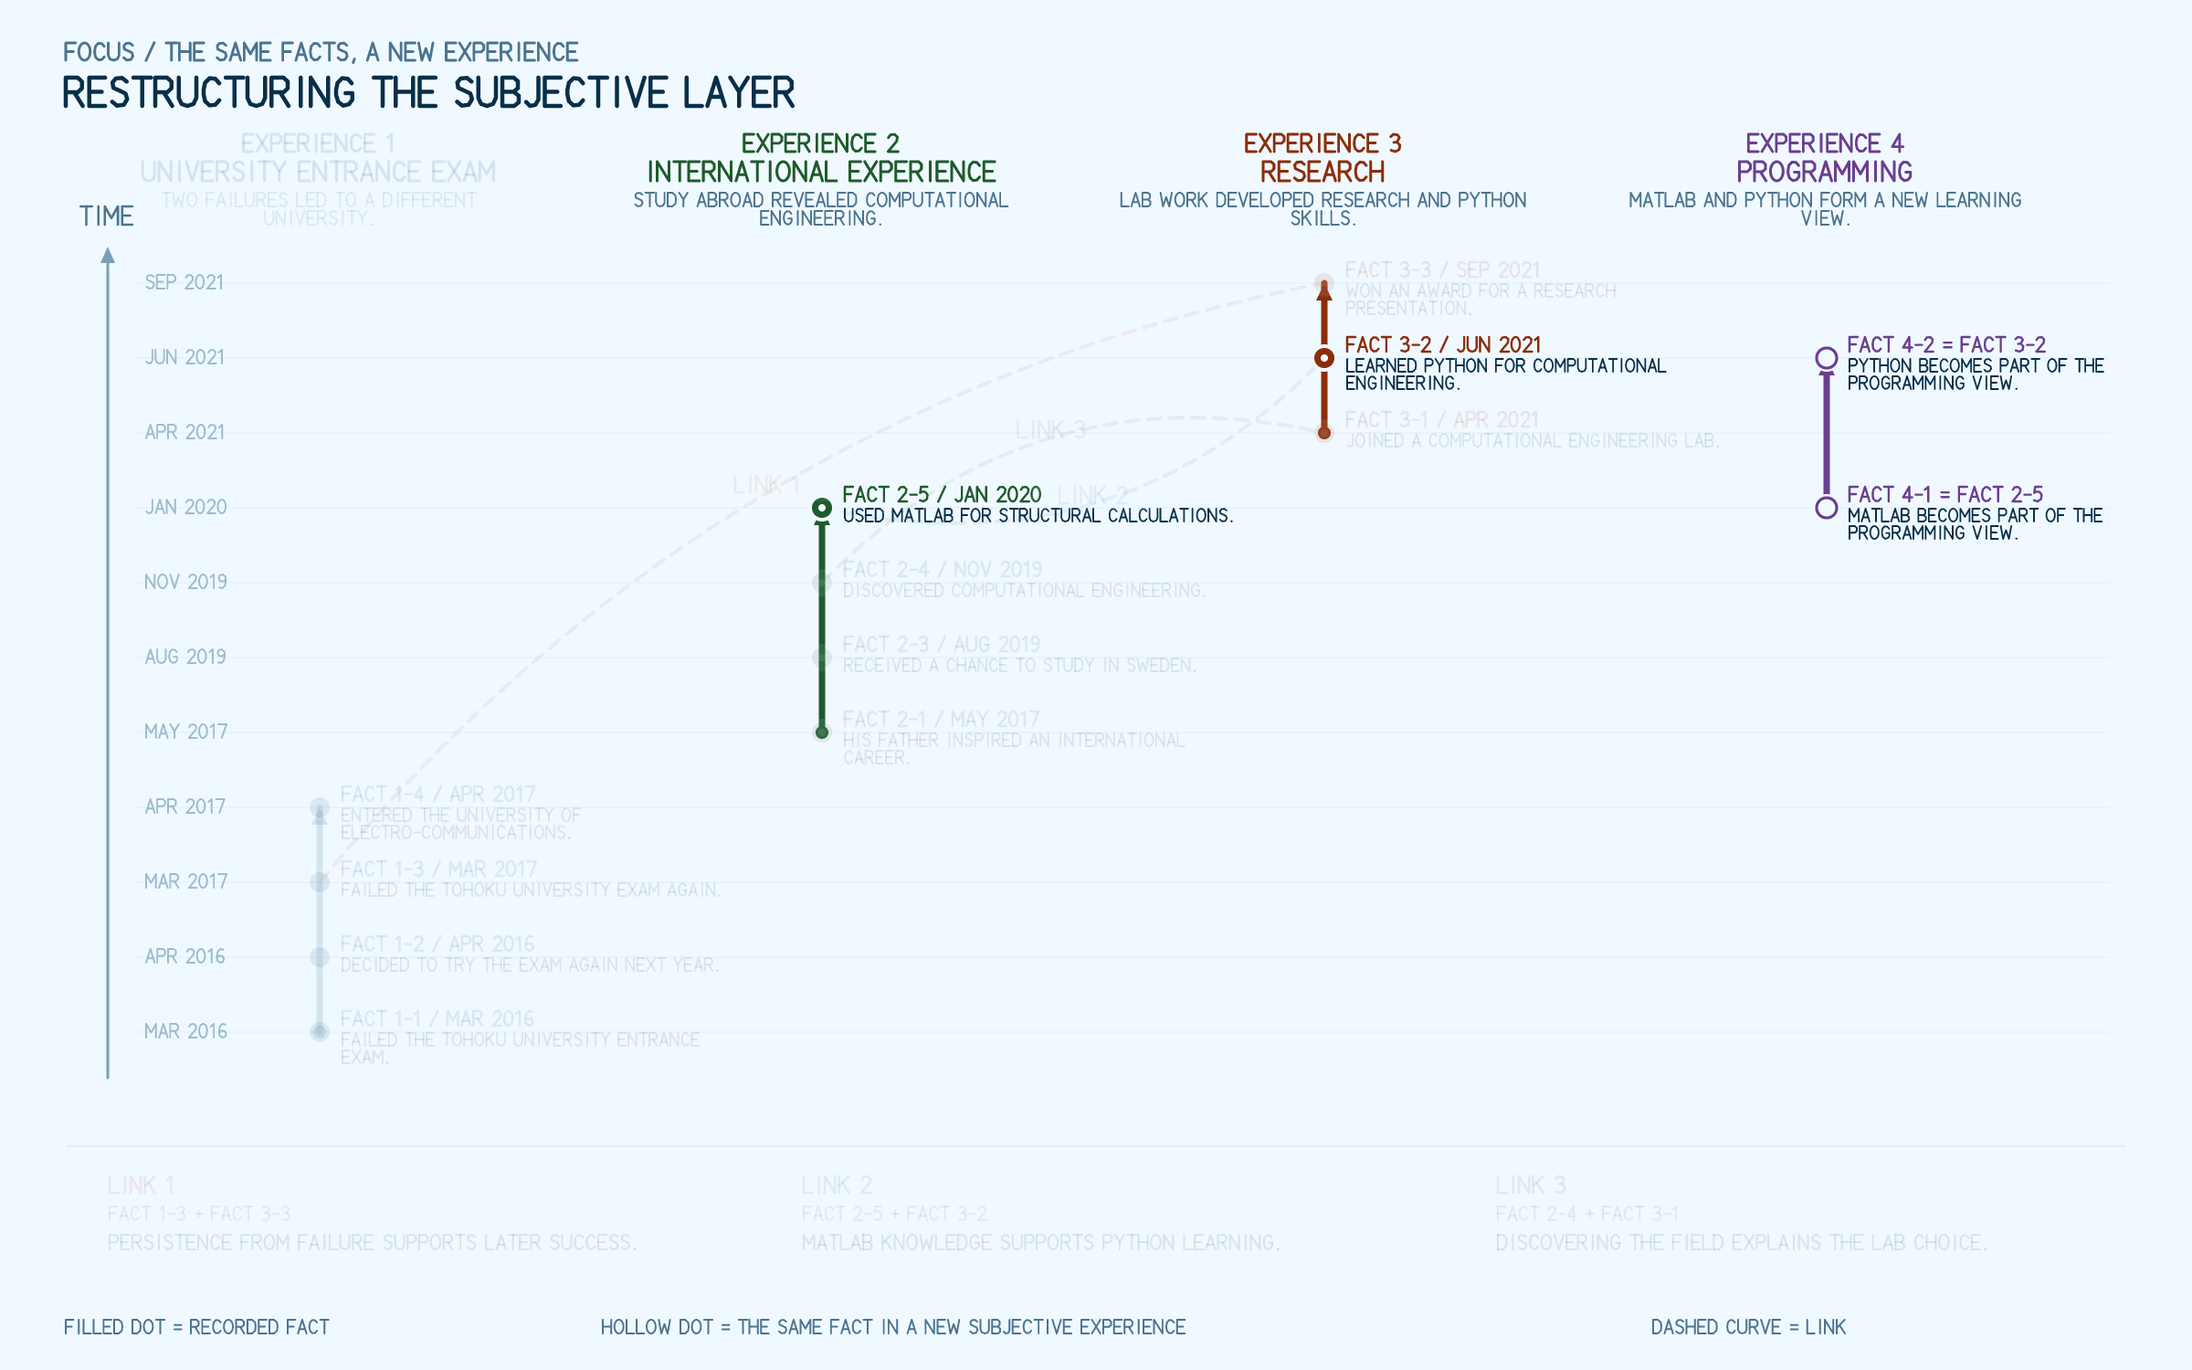
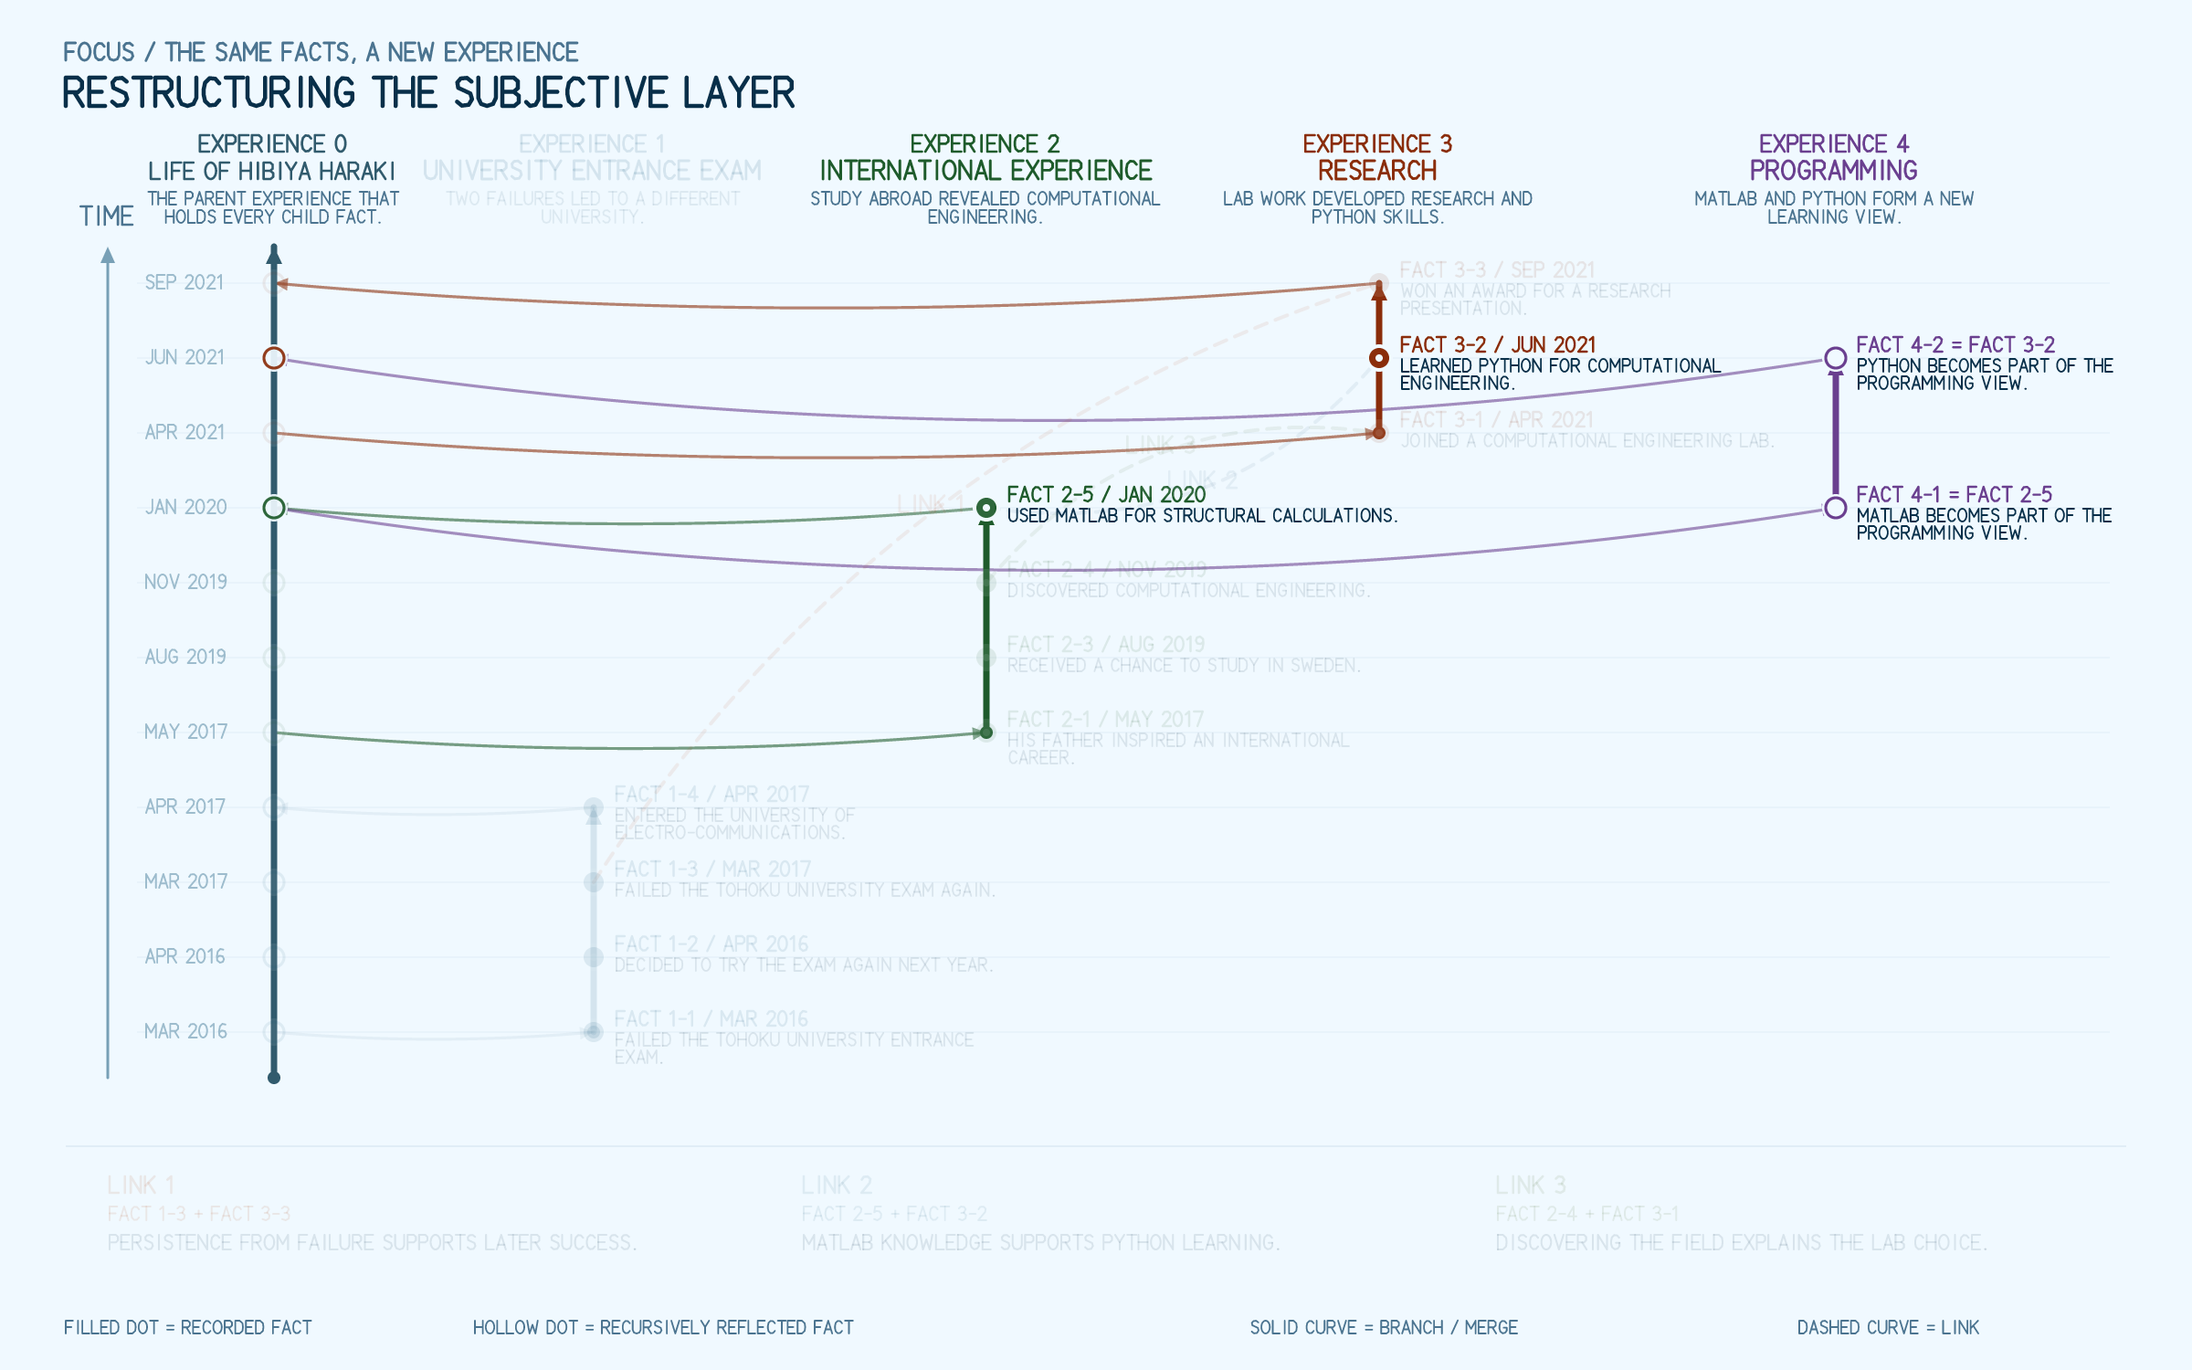
Add life branch on image

diff --git a/src/i18n.js b/src/i18n.js
@@ -104,13 +104,19 @@ const TRANSLATIONS = {
       ],
       caseKicker: 'A LIVED EXAMPLE',
       caseTitle: 'One history can support several ways of understanding a life.',
-      caseDescription: 'The following example follows Hibiya from his university entrance examinations through international study, research, and programming. The FACTs remain objective records. EXPERIENCE and LINK reveal how the same records can acquire meaning that was not visible when they happened.',
+      caseDescription: 'EXPERIENCE 0 represents Hibiya’s life and is the parent of the four focused EXPERIENCEs below. The example follows his university entrance examinations through international study, research, and programming. FACTs remain objective records while EXPERIENCE and LINK reveal meaning that was not visible when the events happened.',
       caseGraphFigure: '09',
       caseGraphImage: 'ecg-example-complete',
       caseGraphTitle: 'The complete scenario on one shared timeline',
-      caseGraphCaption: 'All four EXPERIENCE lanes, every dated FACT, and all three LINKs share one graph. FACT 2-5 and FACT 3-2 also appear as hollow points on EXPERIENCE 4 because the objective events are unchanged while the subjective grouping is new.',
-      caseGraphAlt: 'A complete Extended Commit Graph for Hibiya from March 2016 to September 2021. Four vertical EXPERIENCE lanes contain every dated FACT and its short description. Three dashed LINK curves connect FACT 1-3 to FACT 3-3, FACT 2-5 to FACT 3-2, and FACT 2-4 to FACT 3-1. Hollow points repeat MATLAB and Python on the Programming EXPERIENCE.',
+      caseGraphCaption: 'EXPERIENCE 0 is the parent life lane. EXPERIENCE 1–4 branch from it at their first FACT and merge back after their last FACT, while every unique child FACT is recursively reflected onto EXPERIENCE 0 as a hollow point. The three dashed LINKs keep their separate semantic role.',
+      caseGraphAlt: 'A complete Extended Commit Graph for Hibiya from March 2016 to September 2021. EXPERIENCE 0, Life of Hibiya Haraki, is the leftmost parent line and contains hollow reflections of all child FACTs. EXPERIENCE 1 through 4 branch from and merge back into it with solid curves. Three dashed LINK curves connect FACT 1-3 to FACT 3-3, FACT 2-5 to FACT 3-2, and FACT 2-4 to FACT 3-1.',
       caseExperiences: [
+        {
+          id: 'EXPERIENCE 0',
+          title: 'Life of Hibiya Haraki',
+          description: 'The parent EXPERIENCE for this scenario. EXPERIENCE 1–4 branch from this life line and merge back into it, and their FACTs are recursively reflected onto it.',
+          facts: [],
+        },
         {
           id: 'EXPERIENCE 1',
           title: 'University Entrance Exam',
@@ -164,7 +170,7 @@ const TRANSLATIONS = {
           title: 'A future success can create meaning for a past failure.',
           description: 'EXPERIENCE 1 was originally a story of failure for Hibiya. LINK 1 connects that EXPERIENCE to FACT 3-3, the later presentation award. The failure itself does not become a success and no FACT is rewritten. Instead, a relationship that only became visible later adds the meaning of persistence to the earlier EXPERIENCE. This is the non-linear revaluation that HASM can describe.',
           caption: 'LINK 1 reaches backward across the timeline: FACT 3-3 does not change the failed examinations, but it reveals how the persistence learned there contributed to later success.',
-          alt: 'The complete scenario graph with unrelated entities faded. EXPERIENCE 1, FACT 3-3, and LINK 1 remain emphasized to connect the March 2017 examination failure with the September 2021 presentation award.',
+          alt: 'The complete scenario graph with unrelated entities faded. Parent EXPERIENCE 0, EXPERIENCE 1, FACT 3-3, their branch and merge paths, recursively reflected FACTs, and LINK 1 remain emphasized.',
         },
         {
           key: 'discontinuity',
@@ -174,7 +180,7 @@ const TRANSLATIONS = {
           title: 'A LINK can preserve a reason that chronological order hides.',
           description: 'LINK 3 makes the reason for FACT 3-1 visible: Hibiya selected the laboratory because FACT 2-4 had already shown him that Computational Engineering was interesting. At the time of the international EXPERIENCE, nobody could know that this discovery would later determine a research choice. HASM therefore avoids deciding that an EXPERIENCE is useless simply because its consequence is not yet visible.',
           caption: 'LINK 3 crosses from the International Experience to Research. The two FACTs are separated in time and context, but the LINK preserves the reason for the later decision.',
-          alt: 'The complete scenario graph with unrelated entities faded. FACT 2-4, FACT 3-1, their EXPERIENCE lanes, and LINK 3 remain emphasized to show why Hibiya selected the laboratory.',
+          alt: 'The complete scenario graph with unrelated entities faded. Parent EXPERIENCE 0, FACT 2-4, FACT 3-1, their child EXPERIENCE lanes, branch and merge paths, reflected FACTs, and LINK 3 remain emphasized.',
         },
         {
           key: 'restructuring',
@@ -184,7 +190,7 @@ const TRANSLATIONS = {
           title: 'The same FACTs can reveal a new EXPERIENCE.',
           description: 'When the history is organized by what Hibiya did, FACT 2-5 belongs to International Experience and FACT 3-2 belongs to Research. When it is organized by what he learned, the same two FACTs also form EXPERIENCE 4, Programming. Nothing objective has changed and no duplicate event is created. Only the subjective grouping changes, revealing a perspective that the earlier organization did not show.',
           caption: 'FACT 2-5 and FACT 3-2 keep their identities while appearing together under EXPERIENCE 4. The new line is a new subjective view, not a new history.',
-          alt: 'The complete scenario graph with unrelated entities faded. FACT 2-5, FACT 3-2, and their hollow counterparts on EXPERIENCE 4 remain emphasized to show a new Programming perspective over unchanged FACTs.',
+          alt: 'The complete scenario graph with unrelated entities faded. Parent EXPERIENCE 0, FACT 2-5, FACT 3-2, and their hollow counterparts on EXPERIENCE 4 remain emphasized with the related branch and merge paths.',
         },
       ],
       interactionKicker: 'PLANNED EXPLORATION',
@@ -645,13 +651,19 @@ const TRANSLATIONS = {
       ],
       caseKicker: '実例',
       caseTitle: 'ひとつの履歴を、複数の視点から理解する。',
-      caseDescription: 'この例では、Hibiyaの大学受験から、海外留学、研究、プログラミングまでをたどります。FACTは客観的な記録のまま変わりません。EXPERIENCEとLINKは、出来事が起きた時点では見えていなかった意味を、同じ記録から明らかにします。',
+      caseDescription: 'EXPERIENCE 0はHibiyaの人生を表し、以下の4つのEXPERIENCEの親です。この例では、大学受験から、海外留学、研究、プログラミングまでをたどります。FACTは客観的な記録のまま変わらず、EXPERIENCEとLINKが出来事の時点では見えていなかった意味を明らかにします。',
       caseGraphFigure: '09',
       caseGraphImage: 'ecg-example-complete',
       caseGraphTitle: 'ひとつの時間軸に配置したシナリオ全体',
-      caseGraphCaption: '4本のEXPERIENCE、日付を持つすべてのFACT、3本のLINKをひとつのグラフに配置しています。FACT 2-5とFACT 3-2は、客観的な出来事を変えずに主観的なまとまりだけを変えるため、EXPERIENCE 4にも中抜きの点として現れます。',
-      caseGraphAlt: '2016年3月から2021年9月までのHibiyaの完全なExtended Commit Graph。4本のEXPERIENCEの線に、日付、識別子、短い説明を持つすべてのFACTが配置されています。3本の点線がFACT 1-3とFACT 3-3、FACT 2-5とFACT 3-2、FACT 2-4とFACT 3-1を結び、プログラミングEXPERIENCEにはMATLABとPythonが中抜きの点で再表示されています。',
+      caseGraphCaption: 'EXPERIENCE 0は人生全体を表す親の線です。EXPERIENCE 1〜4は最初のFACTの時点でそこから分岐し、最後のFACTの後に戻ります。子のすべての一意なFACTは、中抜きの点としてEXPERIENCE 0にも再帰的に反映されます。3本の点線のLINKは、分岐・合流とは異なる意味的な関係を保ちます。',
+      caseGraphAlt: '2016年3月から2021年9月までのHibiyaの完全なExtended Commit Graph。最も左に親であるEXPERIENCE 0「Hibiya Harakiの人生」があり、すべての子FACTが中抜きの点として反映されています。EXPERIENCE 1から4は実線の曲線で親から分岐し、親へ合流します。3本の点線のLINKがFACT 1-3とFACT 3-3、FACT 2-5とFACT 3-2、FACT 2-4とFACT 3-1を結びます。',
       caseExperiences: [
+        {
+          id: 'EXPERIENCE 0',
+          title: 'Hibiya Harakiの人生',
+          description: 'このシナリオ全体の親EXPERIENCEです。EXPERIENCE 1〜4はこの人生の線から分岐して戻り、それぞれのFACTもこの線へ再帰的に反映されます。',
+          facts: [],
+        },
         {
           id: 'EXPERIENCE 1',
           title: '大学受験',
@@ -705,7 +717,7 @@ const TRANSLATIONS = {
           title: '未来の成功が、過去の失敗に意味を生む。',
           description: 'EXPERIENCE 1は、当初Hibiyaにとって失敗の物語でした。LINK 1は、そのEXPERIENCEと、後の発表賞であるFACT 3-3を結びます。失敗そのものが成功に変わるわけでも、FACTが書き換えられるわけでもありません。後になって初めて見えた関係が、過去のEXPERIENCEに「粘り強さ」という意味を加えます。これが、HASMが表現できる非線形な再評価です。',
           caption: 'LINK 1は時間をさかのぼって関係を示します。FACT 3-3は受験の失敗を変えませんが、そこで培った粘り強さが後の成功にどう寄与したかを明らかにします。',
-          alt: 'シナリオ全体のグラフで、無関係な要素を薄く表示しています。EXPERIENCE 1、FACT 3-3、LINK 1が強調され、2017年3月の受験失敗と2021年9月の発表賞を結んでいます。',
+          alt: 'シナリオ全体のグラフで、無関係な要素を薄く表示しています。親のEXPERIENCE 0、EXPERIENCE 1、FACT 3-3、分岐・合流、再帰的に反映されたFACT、LINK 1が強調されています。',
         },
         {
           key: 'discontinuity',
@@ -715,7 +727,7 @@ const TRANSLATIONS = {
           title: 'LINKは、時系列だけでは隠れる理由を残す。',
           description: 'LINK 3は、FACT 3-1の理由を可視化します。Hibiyaがその研究室を選んだのは、FACT 2-4ですでに計算工学の面白さを知っていたからです。海外経験の時点では、その発見が後の研究選択につながると誰にも分かりませんでした。HASMは、影響がまだ見えないという理由だけで、あるEXPERIENCEを役に立たないものと決めることを避けます。',
           caption: 'LINK 3は海外経験から研究へ横断します。2つのFACTは時間も文脈も離れていますが、LINKが後の選択理由を残します。',
-          alt: 'シナリオ全体のグラフで、無関係な要素を薄く表示しています。FACT 2-4、FACT 3-1、それぞれのEXPERIENCE、LINK 3が強調され、研究室を選んだ理由を示しています。',
+          alt: 'シナリオ全体のグラフで、無関係な要素を薄く表示しています。親のEXPERIENCE 0、FACT 2-4、FACT 3-1、子のEXPERIENCE、分岐・合流、反映されたFACT、LINK 3が強調されています。',
         },
         {
           key: 'restructuring',
@@ -725,7 +737,7 @@ const TRANSLATIONS = {
           title: '同じFACTから、新しいEXPERIENCEを見つける。',
           description: '「何をしたか」で履歴を整理すると、FACT 2-5は海外経験に、FACT 3-2は研究に属します。「何を学んだか」で整理すると、同じ2つのFACTがEXPERIENCE 4「プログラミング」も構成します。客観的な情報は何も変わらず、出来事の複製も作られません。主観的なまとまりだけが変わり、以前の整理では見えなかった視点が現れます。',
           caption: 'FACT 2-5とFACT 3-2は同じ識別子を保ったまま、EXPERIENCE 4にも一緒に現れます。新しい線は新しい履歴ではなく、新しい主観的な見方です。',
-          alt: 'シナリオ全体のグラフで、無関係な要素を薄く表示しています。FACT 2-5、FACT 3-2、EXPERIENCE 4上の中抜きの同一FACTが強調され、変わらないFACTに対する新しいプログラミングの視点を示しています。',
+          alt: 'シナリオ全体のグラフで、無関係な要素を薄く表示しています。親のEXPERIENCE 0、FACT 2-5、FACT 3-2、EXPERIENCE 4上の中抜きの同一FACT、関連する分岐・合流が強調されています。',
         },
       ],
       interactionKicker: '予定している操作',

diff --git a/src/extended-commit-graph.css b/src/extended-commit-graph.css
@@ -44,6 +44,7 @@
 .ECG_CaseExperience { border: 1px solid var(--theme-border); }
 .ECG_CaseExperience_4 { grid-column: 1 / -1; }
 .ECG_CaseExperience header { padding: 18px 20px 16px; border-bottom: 1px solid var(--theme-border); }
+.ECG_CaseExperienceDescription { padding: 16px 20px; }
 .ECG_CaseExperience header > span, .ECG_CaseExperience li > span, .ECG_CaseLinks article > span { display: block; color: var(--theme-accent-readable); font-size: 0.76rem; font-weight: 700; letter-spacing: 0.06em; }
 .ECG_CaseExperience header h3 { margin: 4px 0 0; }
 .ECG_CaseExperience ol { list-style: none; margin: 0; padding: 0 20px; }

diff --git a/src/Extended_Commit_Graph.jsx b/src/Extended_Commit_Graph.jsx
@@ -88,6 +88,7 @@ export function Extended_Commit_Graph({ onNavigateHome }) {
                     <span>{experience.id}</span>
                     <h3>{experience.title}</h3>
                   </header>
+                  {experience.description && <p className="ECG_CaseExperienceDescription">{experience.description}</p>}
                   <ol>
                     {experience.facts.map(([id, title, description]) => (
                       <li key={id}>

diff --git a/README.md b/README.md
@@ -14,7 +14,7 @@ Visit the published site: [HASM on GitHub Pages](https://hibiyaharaki.github.io/
 
 ## Extended Commit Graph
 
-The Extended Commit Graph page describes EXPERIENCE distribution on the XY plane, time on the Z axis, and the equivalent flattened 2D view. It introduces PERSON, EXPERIENCE, FACT, and LINK notation; explains multiple parents and recursive FACT visibility; and uses one complete worked-example graph plus three opacity-focused variants to show non-linear revaluation, structural discontinuity, and restructuring of the subjective layer.
+The Extended Commit Graph page describes EXPERIENCE distribution on the XY plane, time on the Z axis, and the equivalent flattened 2D view. It introduces PERSON, EXPERIENCE, FACT, and LINK notation; explains parent branches and recursive FACT visibility; and uses one complete worked-example graph plus three opacity-focused variants to show non-linear revaluation, structural discontinuity, and restructuring of the subjective layer. In the worked example, EXPERIENCE 0 is Hibiya's life, the parent of EXPERIENCE 1–4.
 
 The diagrams use concise English labels so the generated geometry is shared by both locales; captions, detailed explanations, and alternative text are localized through [src/i18n.js](src/i18n.js). Regenerate all current diagrams with the shared HASM palette:
 
